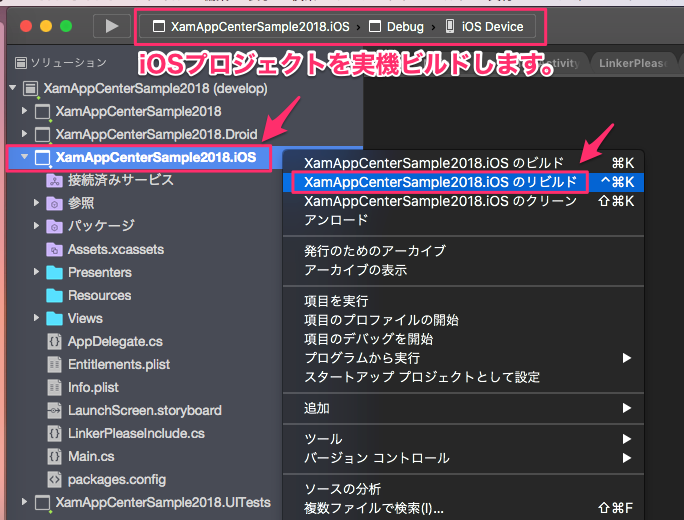
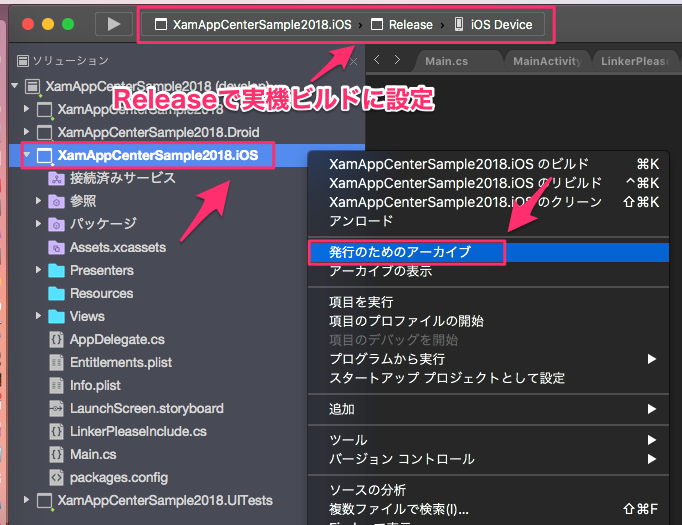
原稿追加

diff --git a/README.md b/README.md
@@ -113,6 +113,23 @@ App Name, OS, Platform を入力、選択し、「Add new app」をクリック
 ## 署名なしの ipa の作成 ##
   
   
-iOSプロジェクトを実機ビルドします。
+iOSプロジェクトを Debug で 実機ビルドに設定します。
+
+
+「単体テスト」タブを開き、
+
+
+iOSプロジェクトを追加します。
+
+
+
+「テストのデバッグ」を実行します。
+
+
+
+完了したら、Finder でiOSプロジェクトのフォルダを見てみると、
+署名はされていませんが、ipaファイルが生成されています。
 ![](https://github.com/TomohiroSuzuki128/XamAppCenterSample2018/blob/develop/images/012.png?raw=true)
+
+完了したら
 
